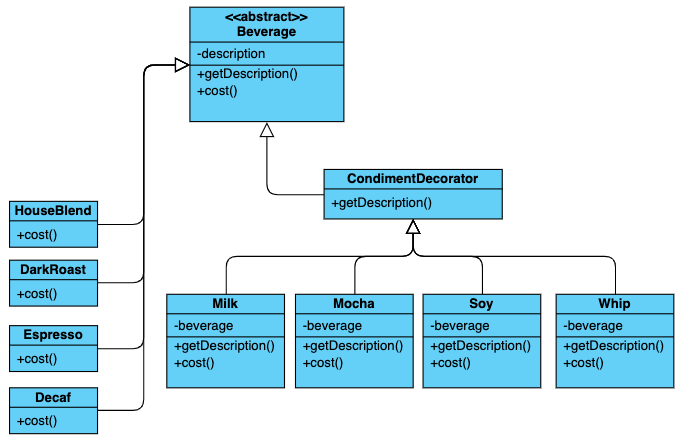
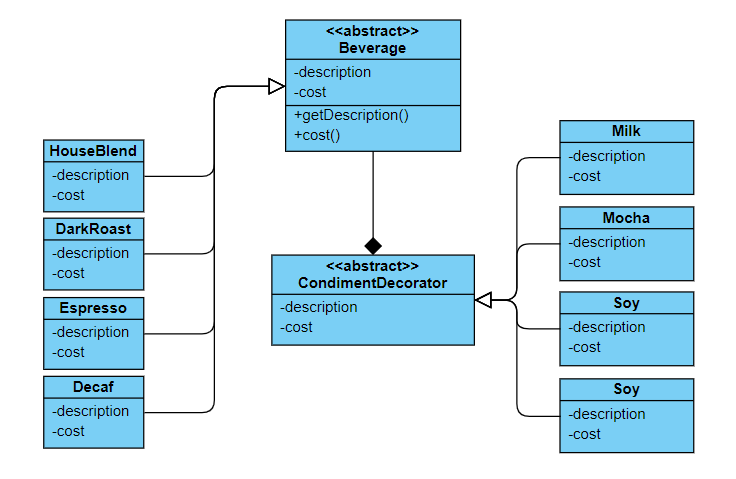
1. update README.md 2. update class diagram of decorator pattern

diff --git a/decorator_pattern/decorator_module.py b/decorator_pattern/decorator_module.py
@@ -26,8 +26,11 @@ class Decaf(Beverage):
     _description = 'Decaf'
     _cost = 1.05
 
-# Here we use class decorator, and another way is using function decorator
+# Here we use decorating class because of the advantage of inheritance
+# The another way is using decorating function
 class CondimentDecorator(metaclass=abc.ABCMeta):
+    _description = 'Unknown Condiment'
+    _cost = 0
     def __init__(self, decorator_target):
         self.target = decorator_target
 

diff --git a/decorator_pattern/decorator_example.py b/decorator_pattern/decorator_example.py
@@ -66,7 +66,7 @@ def main():
     b = WhipSoyDecaf()
     print(b.getDescription())
     print(b.cost())
-    
+
     print("===============")
     b = WhipSoyMochaDarkRoast()
     print(b.getDescription())

diff --git a/README.md b/README.md
@@ -42,7 +42,7 @@ Observer pattern is that when we have one writer and many readers, then we can u
 3. Write program based on interface instead of implementation
 4. **Loosen the coupling between objects**
 
-## Example
+### Example
 A weather example:
 There is an subject in the example named weather. The subject is responsible for getting the weather data from other class and maintaining the registration of observers. There could be many observers for different purpose, but all of them have to register to subject in order to receive the updated weather data.
 
